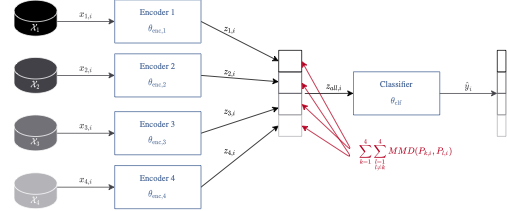
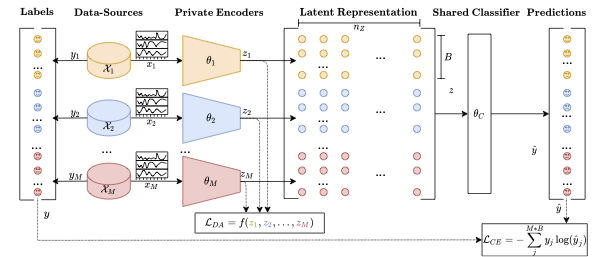
bugfixes

Changed region(s): [[0.0296, 0.0, 1.0, 1.0]]

diff --git a/pipeline_funcs.py b/pipeline_funcs.py
@@ -115,14 +115,13 @@ def train(model, train_dataloader, validation_dataloader, run_name, logpath, log
                     'val_acc': val_acc,
                     'optimizer' : optimizer.state_dict(),
                 }
+            torch.save(best_state, os.path.join(logpath, run_name, 'best_model.pt'))
         else:
             early_stopping_wait+=1    
             if early_stopping_wait > early_stopping_after_epochs:
                 print("Early Stopping")
-                break
-        
-    torch.save(best_state, os.path.join(logpath, run_name, 'best_model.pt'))
-    return 1
+                return
+    return
 
 def train_adversarial(model, train_dataloader, validation_dataloader, run_name, logpath, logging_daemons, lam_scheduler, max_epochs=300, early_stopping_after_epochs=20):
     """Trains a Multi-Source Framework and logs relevant data to file
@@ -264,14 +263,13 @@ def train_adversarial(model, train_dataloader, validation_dataloader, run_name, 
                     'adv_optimizer' : adv_optimizer.state_dict(),
                     'lam': lam,
                 }
+            torch.save(best_state, os.path.join(logpath, run_name, 'best_model.pt'))
         else:
             early_stopping_wait+=1    
             if early_stopping_wait > early_stopping_after_epochs:
                 print("Early Stopping")
-                break
-        
-    torch.save(best_state, os.path.join(logpath, run_name, 'best_model.pt'))
-    return 1
+                return
+    return
 
 def test(model, test_dataloader, run_name, logpath, logging_daemons, used_hyperparams=dict()):
     """Calculates and logs the achieved accuracy of a trained Framework on a testset
@@ -396,7 +394,7 @@ def test_adversarial(model, test_dataloader, run_name, logpath, logging_daemons,
         writer = csv.writer(f)
         writer.writerow([str(cla_test_acc), str(adv_test_acc)])
     
-    return 1
+    return
 
 def pretrain_encoders(model, train_dataloader, validation_dataloader, run_name, logpath, max_epochs=25):
     #setup
@@ -491,10 +489,10 @@ def pretrain_encoders(model, train_dataloader, validation_dataloader, run_name, 
                         'optimizer' : optimizers[i].state_dict(),
                     }
         
-    for i in range(len(model.encoders)):
-        torch.save(best_state[i], os.path.join(logpath, run_name, 'pretrained_encoder_'+str(i)+'.pt'))
+                for i in range(len(model.encoders)):
+                    torch.save(best_state[i], os.path.join(logpath, run_name, 'pretrained_encoder_'+str(i)+'.pt'))
     
-    return 1
+    return
 
 def train_with_mmd_loss(model, train_dataloader, validation_dataloader, run_name, logpath, logging_daemons, domain_clfs, kappa_scheduler, max_epochs=300, early_stopping_after_epochs=50):
     """Trains a Multi-Source Framework and logs relevant data to file
@@ -673,14 +671,14 @@ def train_with_mmd_loss(model, train_dataloader, validation_dataloader, run_name
                     'optimizer' : optimizer.state_dict(),
                     'kappa': kappa,
                 }
+            torch.save(best_state, os.path.join(logpath, run_name, 'best_model.pt'))
         else:
             early_stopping_wait+=1    
             if early_stopping_wait > early_stopping_after_epochs:
                 print("Early Stopping")
-                break
+                return
         
-    torch.save(best_state, os.path.join(logpath, run_name, 'best_model.pt'))
-    return 1
+    return
 
 def train_singlesource(model, train_dataloader, validation_dataloader, run_name, logpath, logging_daemons, max_epochs=500, early_stopping_after_epochs=20):
     """Trains a Multi-Source Framework and logs relevant data to file
@@ -781,14 +779,13 @@ def train_singlesource(model, train_dataloader, validation_dataloader, run_name,
                     'val_acc': val_acc,
                     'optimizer' : optimizer.state_dict(),
                 }
+            torch.save(best_state, os.path.join(logpath, run_name, 'best_model.pt'))
         else:
             early_stopping_wait+=1    
             if early_stopping_wait > early_stopping_after_epochs:
                 print("Early Stopping")
-                break
-        
-    torch.save(best_state, os.path.join(logpath, run_name, 'best_model.pt'))
-    return 1
+                return
+    return
 
 def test_singlesource(model, test_dataloader, run_name, logpath, logging_daemons, used_hyperparams=dict()):
     """Calculates and logs the achieved accuracy of a trained Framework on a testset

diff --git a/pipeline.py b/pipeline.py
@@ -96,34 +96,22 @@ def pipeline_saverun(data_sources, encoder ,latent_dim, train_mode, run_name, ve
     try:
         pipeline(data_sources, encoder ,latent_dim, train_mode, run_name, version, loss_weight_scheduler, logpath, domain_clfs, enc_kwargs, train_method_kwargs)
     except Exception as e:
-        pipeline_helper.send_mail_notification('Fehler', run_name, e)
+        pipeline_helper.send_mail_notification(GMAIL_ADDRESS, PASSWORD, RECIPIENT, 'Fehler', run_name, e)
         print(e)
 
 if __name__ == '__main__':
-    num_runs = [0,1,2,3,4]
-    latent_dim = 50
+    GMAIL_ADDRESS = "",
+    PASSWORD = "",
+    RECIPIENT = ""
 
-    for run_id in num_runs:
-        pipeline_saverun(
-                ['SEED', 'SEED_IV', 'DEAP', 'DREAMER'],
-                architectures.DeepConvNetEncoder,
-                latent_dim,
-                'mmd',
-                'DCN-1111-%i-mmd-clc-vPaper_o-DAPE-%i'%(latent_dim, run_id),
-                'vPaper_o',
-                loss_weight_scheduler=hyperparam_schedulers.constant_linear_constant_schedule(start_epoch=5, start_value=0, step_value=0.25, stop_epoch=70),
-                logpath='../logs_vPaper_o/',
-                train_method_kwargs=dict(early_stopping_after_epochs=50)
-            )
-        pipeline_saverun(
-                ['SEED', 'SEED_IV', 'DEAP', 'DREAMER'],
-                architectures.DeepConvNetEncoder,
-                latent_dim,
-                'mmd',
-                'DCN-1111-%i-mmd-clc-vPaper_o-aDAPE-%i'%(latent_dim, run_id),
-                'vPaper_o',
-                loss_weight_scheduler=hyperparam_schedulers.constant_linear_constant_schedule(start_epoch=5, start_value=0, step_value=0.25, stop_epoch=70),
-                logpath='../logs_vPaper_o/',
-                enc_kwargs= dict(use_test_time_batch_statistics=True),
-                train_method_kwargs=dict(early_stopping_after_epochs=50)
-            )
+    pipeline_saverun(
+            ['SEED', 'SEED_IV', 'DEAP', 'DREAMER'],
+            architectures.DeepConvNetEncoder,
+            50,
+            'mmd',
+            'run_name',
+            'v1',
+            loss_weight_scheduler=hyperparam_schedulers.constant_linear_constant_schedule(start_epoch=5, start_value=0, step_value=0.25, stop_epoch=70),
+            logpath='../logs/',
+            train_method_kwargs=dict(early_stopping_after_epochs=50)
+        )

diff --git a/add_datasource.py b/add_datasource.py
@@ -9,8 +9,9 @@ from tqdm import tqdm, trange
 from pipeline_helper import MMD_loss
 from sklearn.metrics import accuracy_score
 from sklearn.utils import resample
+from hyperparam_schedulers import hyperparam_schedule
 
-def train_domain_aligned_autoencoder(autoencoder, train_epochs, train_dataloader, validation_dataloader, z_train_list, z_val_list, run_name, logpath, kappa_scheduler, early_stopping_after_epochs=100, scheduler_kwargs=dict()):
+def train_domain_aligned_autoencoder(autoencoder: nn.Module, train_epochs: int, train_dataloader: torch.utils.data.DataLoader, validation_dataloader: torch.utils.data.DataLoader, z_train_list: list, z_val_list: list, run_name: str, logpath: str, kappa_scheduler: hyperparam_schedule, early_stopping_after_epochs:int = 100, scheduler_kwargs:dict = dict()) -> None:
     """CAUTION: THIS METHOD IS NOT TESTED YET!
     This method trains an autoencoder on the given data
 
@@ -119,18 +120,16 @@ def train_domain_aligned_autoencoder(autoencoder, train_epochs, train_dataloader
                     'optimizer' : optimizer.state_dict(),
                     'kappa': kappa,
                 }
+            torch.save(best_state, os.path.join(logpath, run_name, 'best_autoencoder.pt'))
         else:
             early_stopping_wait+=1    
             if early_stopping_wait > early_stopping_after_epochs:
                 print("Early Stopping")
-                break
-        
-    torch.save(best_state, os.path.join(logpath, run_name, 'best_autoencoder.pt'))
-
-    return autoencoder
+                return
+    return
 
 
-def test_new_datasource(encoder, classifier, test_dataloader, logpath, run_name):
+def test_new_datasource(encoder: nn.Module, classifier: nn.Module, test_dataloader: torch.utils.data.DataLoader, logpath: str, run_name: str) -> None:
     if os.path.isfile(os.path.join(logpath, run_name, 'test_logs.csv')):
         print("LogFile already exists! Rename or remove it, and restart the testing")
         return 0
@@ -160,7 +159,7 @@ def test_new_datasource(encoder, classifier, test_dataloader, logpath, run_name)
         writer = csv.writer(f)
         writer.writerow([str(acc)])
     
-    return 1
+    return
 
 if __name__ == '__main__':
     import architectures

diff --git a/hyperparam_schedulers.py b/hyperparam_schedulers.py
@@ -1,6 +1,16 @@
 import numpy as np
 
-class constant_schedule():
+class hyperparam_schedule():
+    def __init__(self):
+        pass
+
+    def __getitem__(self):
+        pass
+
+    def __str__(self):
+        pass
+
+class constant_schedule(hyperparam_schedule):
     def __init__(self, value=1):
         self.value = value
 
@@ -10,7 +20,7 @@ class constant_schedule():
     def __str__(self):
         return f"C-{self.value}"
 
-class constant_linear_schedule():
+class constant_linear_schedule(hyperparam_schedule):
     def __init__(self, start_epoch=0, start_value=0, step_value=0.5):
         self.start_epoch = start_epoch
         self.start_value = start_value
@@ -26,7 +36,7 @@ class constant_linear_schedule():
         return f"CL-{self.start_epoch}-{self.start_value}-{self.step_value}"
 
 
-class linear_constant_schedule():
+class linear_constant_schedule(hyperparam_schedule):
     def __init__(self, step_value=0.1, stop_epoch=10):
         self.step_value = step_value
         self.stop_epoch = stop_epoch
@@ -40,7 +50,7 @@ class linear_constant_schedule():
     def __str__(self):
         return f"LC-{self.step_value}-{self.stop_epoch}"
 
-class constant_linear_constant_schedule():
+class constant_linear_constant_schedule(hyperparam_schedule):
     def __init__(self, start_epoch=0, start_value=0, step_value=0.1, stop_epoch=1):
         self.start_epoch = start_epoch
         self.start_value = start_value

diff --git a/pipeline_helper.py b/pipeline_helper.py
@@ -32,7 +32,7 @@ def generate_encoder_list(encoder, latent_dim, data_source_files, **kwargs):#dat
 def generate_run_name():
     pass
 
-def send_mail_notification(subject, run_name, error):
+def send_mail_notification(GMAIL_ADDRESS, PASSWORD, RECIPIENT, subject, run_name, error):
     try:
         import smtplib
         SUBJECT = subject
@@ -41,9 +41,9 @@ def send_mail_notification(subject, run_name, error):
         mail = smtplib.SMTP('smtp.gmail.com', 587)
         mail.ehlo()
         mail.starttls()
-        mail.login('notifier.finished@gmail.com', 'tHeLtOCKwenI')
-        mail.sendmail('notifier.finished@gmail.com', 'philipp.hallgarten@web.de', content)
-        mail.sendmail('notifier.finished@gmail.com', 'philipp.hallgarten1@porsche.de', content)
+        mail.login(GMAIL_ADDRESS, PASSWORD)
+        mail.sendmail(GMAIL_ADDRESS, RECIPIENT, content)
+        mail.sendmail(GMAIL_ADDRESS, RECIPIENT, content)
         mail.close()
     except:
         print("Mail could not be sent")

diff --git a/multi_source_framework.py b/multi_source_framework.py
@@ -19,7 +19,7 @@ if not(DEBUG_MODE):
     torch.autograd.profiler.emit_nvtx(False)
 
 
-class Framework(nn.Module):
+class DAPE(nn.Module):
     def __init__(self, encoders, latent_dim, num_classes, use_adversary=False):
         super().__init__()
         self.num_datasources = len(encoders)
@@ -92,7 +92,7 @@ if __name__ == '__main__':
         architectures.EEGNetEncoder(channels=62, temporal_filters=F1, spatial_filters=D, pointwise_filters=F2, dropout_propability=0.25, latent_dim=latent_dim, use_constrained_conv=False), #SEED
         architectures.EEGNetEncoder(channels=62, temporal_filters=F1, spatial_filters=D, pointwise_filters=F2, dropout_propability=0.25, latent_dim=latent_dim, use_constrained_conv=False) #SEED-IV
     ]
-    model = Framework(encoders, 20, 3)
+    model = DAPE(encoders, 20, 3)
 
     print("----- #Model Parameters: -----")
     print(count_parameters(model))

diff --git a/autoencoder.py b/autoencoder.py
@@ -19,10 +19,8 @@ if not(DEBUG_MODE):
 class autoencoder(nn.Module):
     def __init__(self, encoder, decoder):
         super().__init__()
-        self.encoder  = nn.ModuleList()
-        self.encoder.append(encoder)
-        self.decoder = nn.ModuleList()
-        self.decoder.append(decoder)
+        self.encoder  = nn.ModuleList(encoder)
+        self.decoder = nn.ModuleList(decoder)
 
     def forward(self,x):
         z_pred = self.encoder[0](x)

diff --git a/README.md b/README.md
@@ -1,8 +1,24 @@
 # DAPE Framework
-DAPE (Domain Aligned Private Encoders) is a Framework for learning from multiple data-sources. Thereby, multiple encoders are trained using one common classifier. An MMD Loss is used for aligning the encoders during train-time.
+DAPE (Domain Aligned Private Encoders) is a Framework for learning from multiple data-sources. Thereby, multiple encoders are jointly trained on data of different data-sources while using one common classifier. An MMD Loss is used for aligning the learnt representations of the encoders during train-time.
+
+## Citation
+If you find this work helpfull, please cite the paper, this repository is based on
+```
+@article{bethge2022domain,
+  title={Domain-Invariant Representation Learning from EEG with Private Encoders},
+  author={Bethge, David and Hallgarten, Philipp and Grosse-Puppendahl, Tobias and Kari, Mohamed and Mikut, Ralf and Schmidt, Albrecht and {\"O}zdenizci, Ozan},
+  booktitle={ICASSP 2022-2022 IEEE International Conference on Acoustics, Speech and Signal Processing (ICASSP)},
+  pages={tbd},
+  year={2022},
+  organization={IEEE}
+}
+```
 
 ## Description
-The DAPE Framework consists of mutliple encoders, one for each-data source. No matter which encoder is used, it is even possible to use different encoders for different data-sources. The only constrain is, that the output of each encoder has to have the same shape. From the latent representations that the encoders output, a shared classifier is making predictions for the samples of each data-source. A visualization of the Framework is shown in the following picture. ![DAPE Framework Architecture](img/DAPE_Architecture.png).
+The DAPE Framework consists of mutliple encoders, one for each-data source. The encoder backbone can be chosen freely, it is also possible to use different encoders for different data-sources. The only constrain consists in the encoders outputs needing to have the same shape. The latent representations output by the encoders are used as input for a shared classifier, which makes predictions for each sample of each data-source. A visualization of the Framework is shown in the following figure. <br/> ![DAPE Framework](img/dape_architecture.png).
 
 ## How to use it
-In order to train the Framework, you can use the methods in `pipeline_funcs.py`, i.e. `train`, `test`, etc. to build yourself a pipeline, or you can use the method `pipeline`in the file `pipeline.py` to train and test a DAPE Framework. For more information on the parameters you need to pass to the method, please refer to the comments in the file.
+In order to train the Framework, you can use the methods in `pipeline_funcs.py`, i.e. `train` and `test` to build yourself a custom pipeline. Else you can get a head start by using the method `pipeline` in the file `pipeline.py` to train and test a DAPE Framework. For more information on the methods parameters, please refer to the comments in the files.
+
+## Contact
+If you have any question or ideas feel free to reach out on me!
